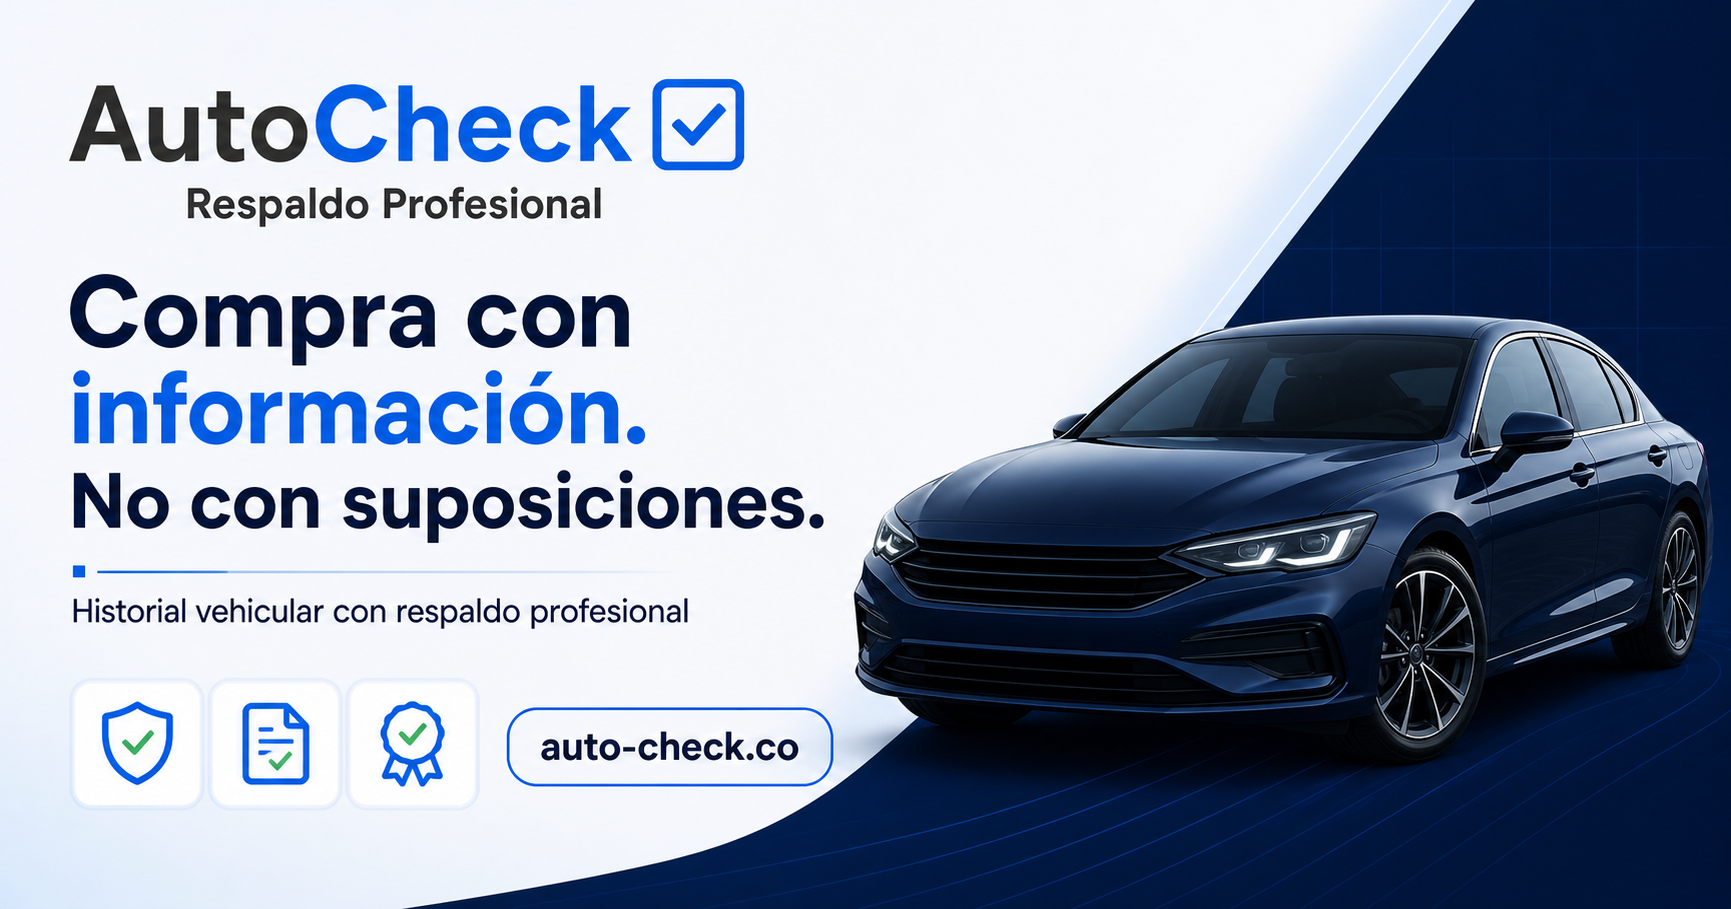
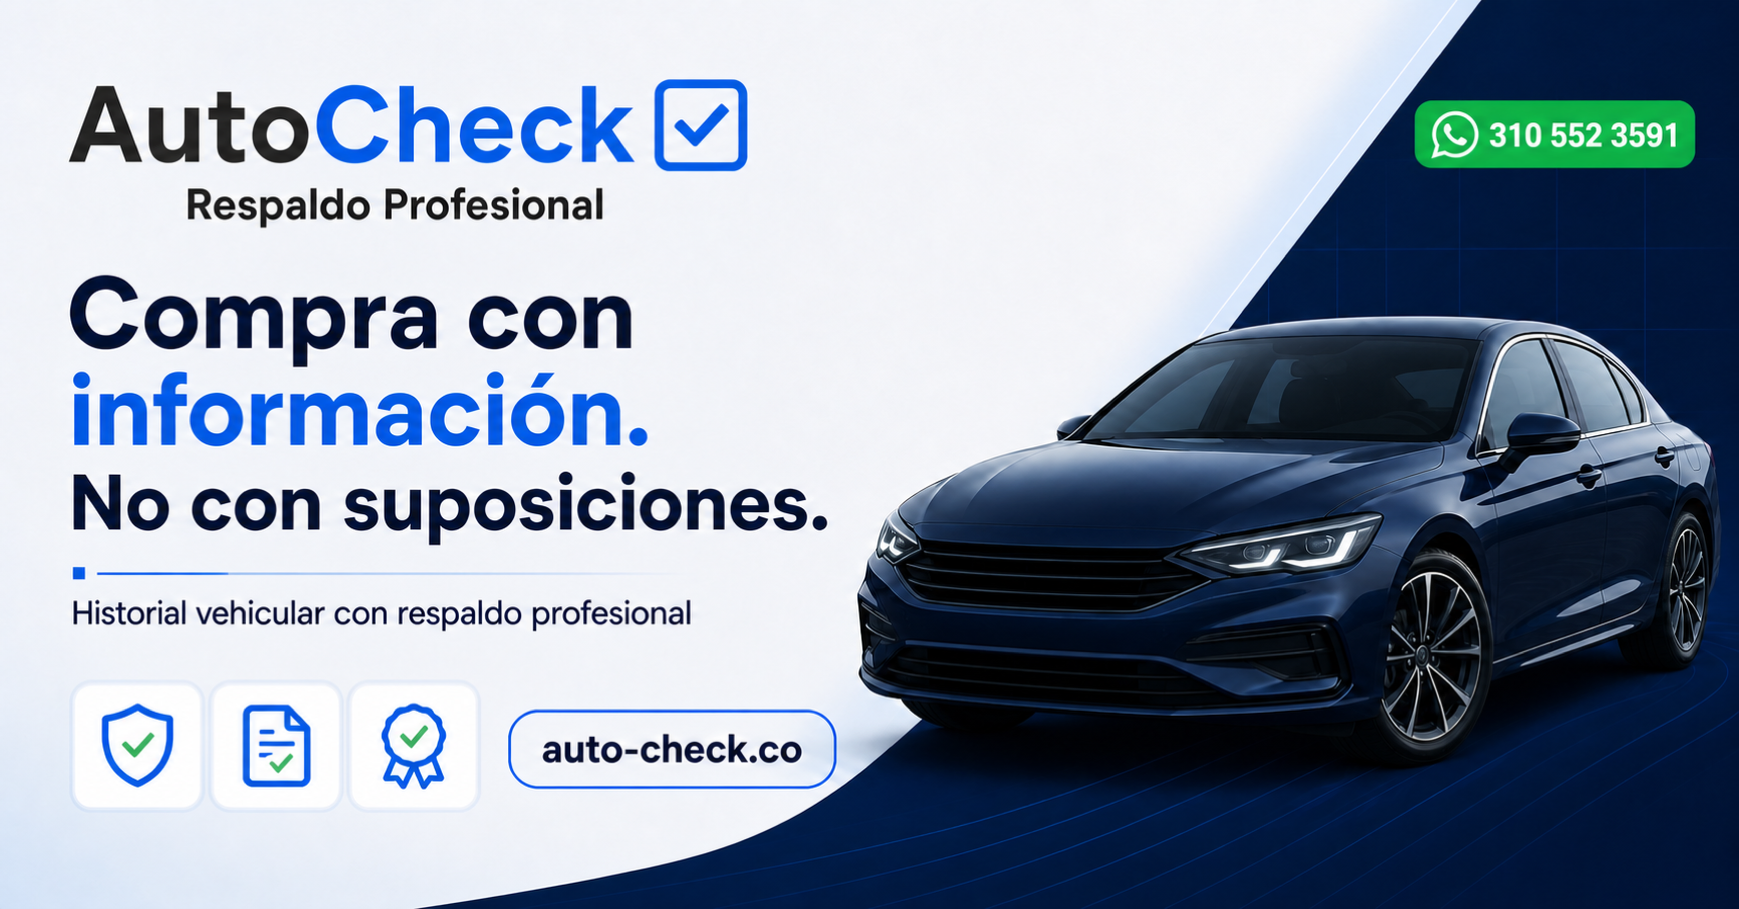
Refine spacing and update brand assets

diff --git a/app/globals.css b/app/globals.css
@@ -28,7 +28,7 @@ a { color: inherit; text-decoration: none; }
 img { display: block; max-width: 100%; }
 button, a { -webkit-tap-highlight-color: transparent; }
 .container { width: min(1180px, calc(100% - 40px)); margin: 0 auto; }
-.section { padding: 108px 0; }
+.section { padding: 68px 0; }
 
 .topbar { background: var(--navy); color: #dbe6ff; font-size: 12px; letter-spacing: .04em; }
 .topbar-inner { height: 34px; display: flex; justify-content: space-between; align-items: center; }
@@ -109,7 +109,7 @@ nav a:hover { color: var(--blue); }
 .floating-pill-two { bottom: 8%; left: -2%; animation-delay: -2s; }
 @keyframes float { 0%,100% { transform: translateY(0); } 50% { transform: translateY(-7px); } }
 
-.differentiator { padding-bottom: 78px; background: white; }
+.differentiator { padding-bottom: 50px; background: white; }
 .differentiator-grid { display: grid; grid-template-columns: .85fr 1.15fr; gap: 78px; align-items: center; }
 .differentiator-copy h2 { margin: 12px 0 24px; color: var(--navy); font-size: clamp(38px, 4.2vw, 56px); line-height: 1.06; letter-spacing: -.045em; }
 .differentiator-copy p { margin: 0 0 10px; color: var(--muted); font-size: 17px; line-height: 1.55; }
@@ -121,7 +121,7 @@ nav a:hover { color: var(--blue); }
 .differentiator-card > p { margin: 25px 0 0; padding-top: 20px; border-top: 1px solid #d8e0ec; color: var(--navy); font-size: 15px; line-height: 1.5; font-weight: 800; }
 .commercial-slogan { margin-top: 35px; padding: 20px 26px; display: flex; justify-content: center; gap: 6px; flex-wrap: wrap; background: var(--blue); color: white; border-radius: 12px; text-align: center; font-size: 16px; line-height: 1.5; }
 
-.buyer-questions { padding: 88px 0; background: var(--soft); border-bottom: 1px solid #e2e8f2; }
+.buyer-questions { padding: 58px 0; background: var(--soft); border-bottom: 1px solid #e2e8f2; }
 .questions-grid { display: grid; grid-template-columns: .72fr 1.28fr; gap: 76px; align-items: center; }
 .questions-intro h2 { margin: 12px 0 18px; color: var(--navy); font-size: clamp(36px, 4vw, 52px); line-height: 1.07; letter-spacing: -.045em; }
 .questions-intro p { max-width: 470px; margin: 0; color: var(--muted); font-size: 15px; line-height: 1.7; }
@@ -130,7 +130,7 @@ nav a:hover { color: var(--blue); }
 .question-cards span { width: 36px; height: 36px; display: grid; place-items: center; color: white; background: var(--blue); border-radius: 50%; font-size: 18px; font-weight: 850; }
 .question-cards p { margin: 0; color: var(--navy); font-size: 13px; line-height: 1.45; font-weight: 700; }
 
-.report-explanation { background: white; }
+.report-explanation { padding-bottom: 46px; background: white; }
 .report-explanation-grid { display: grid; grid-template-columns: .78fr 1.22fr; gap: 88px; align-items: center; }
 .editorial-report-card { min-height: 390px; padding: 42px 36px; display: flex; flex-direction: column; justify-content: center; gap: 18px; color: white; background: var(--navy); border-radius: 20px; box-shadow: 0 28px 60px rgba(5,31,83,.2); }
 .editorial-report-card > span { color: #75a6ff; font-size: 10px; letter-spacing: .15em; font-weight: 850; }
@@ -146,8 +146,8 @@ nav a:hover { color: var(--blue); }
 .interpretation-copy { max-width: 700px; margin: 20px auto 0; }
 .section-heading.centered .interpretation-copy p { margin: 6px auto 0; }
 
-.year-selector { padding: 74px 0 84px; background: white; }
-.section-heading { margin-bottom: 42px; }
+.year-selector { padding: 42px 0 62px; background: white; }
+.section-heading { margin-bottom: 32px; }
 .section-heading.compact { display: flex; align-items: flex-end; justify-content: space-between; gap: 35px; }
 .section-heading h2 { margin: 9px 0 0; font-size: clamp(34px, 4vw, 52px); line-height: 1.08; letter-spacing: -.04em; color: var(--navy); }
 .section-heading p { max-width: 680px; color: var(--muted); font-size: 16px; line-height: 1.65; }
@@ -215,7 +215,7 @@ nav a:hover { color: var(--blue); }
 .legal-price strong { display: block; color: var(--navy); font-size: 29px; }
 .legal-price span { display: inline-block; margin-top: 5px; padding: 5px 8px; background: #fff0d5; color: #a46200; border-radius: 5px; font-size: 9px; font-weight: 850; text-transform: uppercase; }
 
-.process { background: var(--navy); color: white; position: relative; overflow: hidden; }
+.process { padding-bottom: 52px; background: var(--navy); color: white; position: relative; overflow: hidden; }
 .process::after { content: ""; position: absolute; right: -10%; top: -55%; width: 700px; height: 700px; border: 1px solid rgba(68,135,255,.18); border-radius: 50%; box-shadow: 0 0 0 90px rgba(28,89,210,.04), 0 0 0 180px rgba(28,89,210,.03); }
 .process-grid { position: relative; z-index: 1; display: grid; grid-template-columns: .75fr 1.25fr; gap: 95px; }
 .section-kicker.light { color: #76a8ff; }
@@ -230,7 +230,7 @@ nav a:hover { color: var(--blue); }
 .steps-list p { margin: 0; color: #aebdda; font-size: 14px; line-height: 1.6; }
 .steps-list p + p { margin-top: 6px; }
 
-.value { background: white; }
+.value { padding: 46px 0 38px; background: white; }
 .value-grid { display: grid; grid-template-columns: repeat(4, 1fr); border: 1px solid #e0e5ee; border-radius: 15px; overflow: hidden; }
 .value-grid article { min-height: 210px; padding: 38px 25px 32px; position: relative; border-right: 1px solid #e0e5ee; transition: background .2s; }
 .value-grid article:last-child { border-right: 0; }
@@ -239,7 +239,7 @@ nav a:hover { color: var(--blue); }
 .value-grid h3 { margin: 0 0 10px; color: var(--navy); font-size: 17px; }
 .value-grid p { margin: 0; color: var(--muted); font-size: 13px; line-height: 1.65; }
 
-.recommendation { color: white; background: var(--navy); position: relative; overflow: hidden; }
+.recommendation { padding-top: 52px; color: white; background: var(--navy); position: relative; overflow: hidden; }
 .recommendation::before { content: ""; position: absolute; width: 620px; height: 620px; left: -280px; bottom: -390px; border: 1px solid rgba(100,154,255,.18); border-radius: 50%; box-shadow: 0 0 0 110px rgba(34,92,198,.04), 0 0 0 220px rgba(34,92,198,.025); }
 .recommendation-grid { position: relative; display: grid; grid-template-columns: 1.05fr .95fr; gap: 85px; align-items: center; }
 .recommendation-copy h2 { max-width: 650px; margin: 13px 0 22px; font-size: clamp(39px, 4.2vw, 58px); line-height: 1.04; letter-spacing: -.045em; }
@@ -267,7 +267,7 @@ nav a:hover { color: var(--blue); }
 .faq-list details[open] summary::after { content: "−"; background: var(--blue); color: white; border-color: var(--blue); }
 .faq-list details p { margin: 14px 55px 0 0; color: var(--muted); font-size: 14px; line-height: 1.65; }
 
-.whatsapp-cta { background: linear-gradient(125deg, #0c49ca, #08276f); color: white; padding: 85px 0; position: relative; overflow: hidden; }
+.whatsapp-cta { background: linear-gradient(125deg, #0c49ca, #08276f); color: white; padding: 62px 0; position: relative; overflow: hidden; }
 .whatsapp-cta::before { content: ""; position: absolute; width: 520px; height: 520px; left: -180px; top: -220px; border: 1px solid rgba(255,255,255,.12); border-radius: 50%; box-shadow: 0 0 0 100px rgba(255,255,255,.025); }
 .whatsapp-inner { position: relative; display: grid; grid-template-columns: 1fr 1fr; align-items: center; gap: 90px; }
 .whatsapp-inner h2 { margin: 13px 0 19px; font-size: clamp(40px, 4.5vw, 62px); line-height: 1.02; letter-spacing: -.045em; }
@@ -307,7 +307,11 @@ footer { padding: 54px 0 20px; background: #fff; }
 }
 
 @media (max-width: 820px) {
-  .section { padding: 82px 0; }
+  .section { padding: 56px 0; }
+  .report-explanation { padding-bottom: 44px; }
+  .value { padding: 44px 0 36px; }
+  .process { padding-bottom: 46px; }
+  .recommendation { padding-top: 46px; }
   .topbar-inner > span { display: none; }
   .topbar-inner { justify-content: center; }
   .nav-wrap { height: 72px; }
@@ -355,13 +359,17 @@ footer { padding: 54px 0 20px; background: #fff; }
   .report-list { padding: 13px 20px 20px; }
   .floating-pill-one { right: -5px; top: -15px; }
   .floating-pill-two { display: none; }
-  .buyer-questions { padding: 66px 0; }
-  .differentiator { padding-bottom: 66px; }
+  .buyer-questions { padding: 48px 0; }
+  .differentiator { padding-bottom: 46px; }
+  .report-explanation { padding-bottom: 40px; }
+  .value { padding: 40px 0 32px; }
+  .process { padding-bottom: 42px; }
+  .recommendation { padding-top: 42px; }
   .differentiator-card { padding: 27px 23px; }
   .commercial-slogan { align-items: center; flex-direction: column; }
   .question-cards { grid-template-columns: 1fr; }
-  .year-selector { padding: 66px 0; }
-  .section-heading { margin-bottom: 33px; }
+  .year-selector { padding: 36px 0 50px; }
+  .section-heading { margin-bottom: 29px; }
   .section-heading h2 { font-size: 37px; }
   .year-card { grid-template-columns: 1fr; padding: 24px; gap: 17px; }
   .year-price { grid-column: auto; }

diff --git a/app/layout.tsx b/app/layout.tsx
@@ -27,7 +27,14 @@ export async function generateMetadata(): Promise<Metadata> {
       "informe vehicular",
     ],
     alternates: { canonical: "/" },
-    icons: { icon: "/logo-autocheck.png", shortcut: "/logo-autocheck.png" },
+    icons: {
+      icon: [
+        { url: "/favicon.ico" },
+        { url: "/favicon.png", type: "image/png", sizes: "512x512" },
+      ],
+      shortcut: "/favicon.ico",
+      apple: [{ url: "/apple-touch-icon.png", type: "image/png", sizes: "180x180" }],
+    },
     openGraph: {
       title: "AutoCheck | Decide mejor antes de comprar",
       description: "Conoce el historial del vehículo y recibe orientación profesional para entender cada hallazgo.",